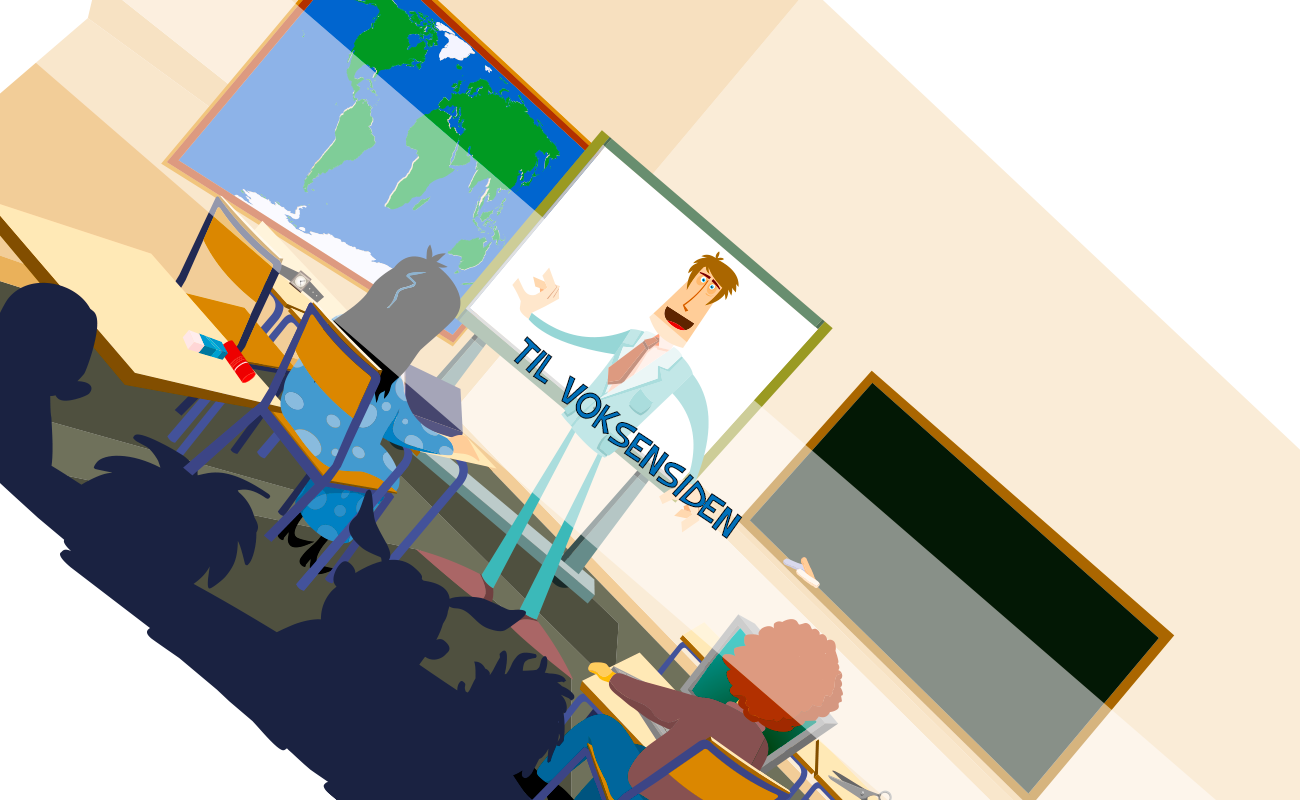
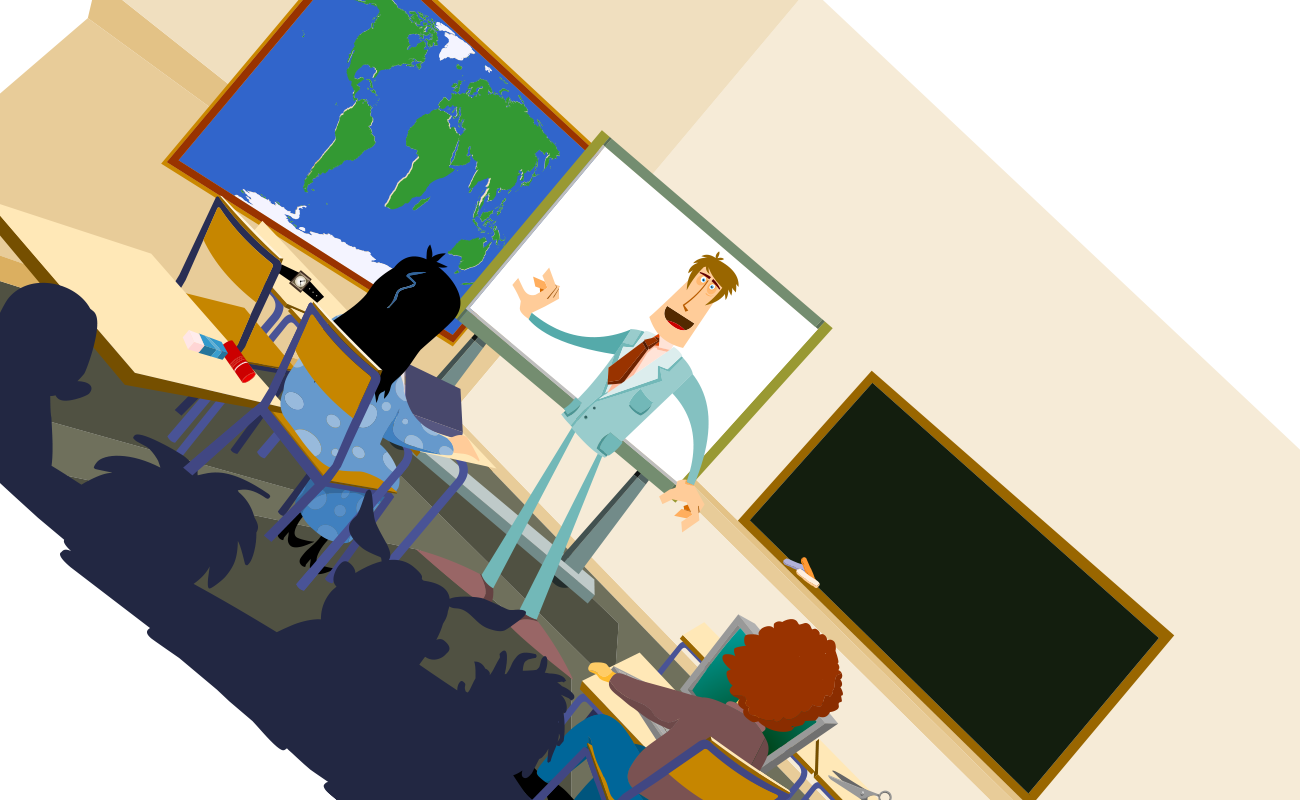
intro endringer

Changed region(s): [[0.0308, 0.0, 0.8615, 1.0]]

diff --git a/Salabytest/app/assets/stylesheets/index/intro.css b/Salabytest/app/assets/stylesheets/index/intro.css
@@ -29,7 +29,7 @@ body {
 /*ADULT SECTION STYLES*/
 
 #adultSection {
-    max-height: 30em;
+    max-height: 20em;
     max-width: 100%;
     -webkit-transform: rotate(-40deg);
     -moz-transform: rotate(-40deg);
@@ -41,12 +41,11 @@ body {
     left: -25em;
     overflow: hidden;
     border-bottom: black solid 5px;
-    /*-webkit-filter: grayscale(1);*/
 
 }
 
 #adultSection img {
-    min-width: 100%;
+    width: 80%;
     transition: .2s all ease-in-out 0s;
 }
 
@@ -58,6 +57,11 @@ body {
 }
 
 
+
+
+/*******************************************************************************************/
+/*CHILD SECTION STYLES*/
+
 #childSection input[type="submit"]{
     font-family: slapstick;
     font-size: 20pt;
@@ -66,10 +70,6 @@ body {
 input[type="text"],input[type="password"] {
     font-family: helvetica;
 }
-
-/*******************************************************************************************/
-/*CHILD SECTION STYLES*/
-
 #childSection {
     position: absolute;
     right: 20em;
@@ -102,13 +102,6 @@ input[type="text"],input[type="password"] {
 }
 /*
 
-#adultSection:hover {
-    -webkit-filter: grayscale(0);
-}
-
-#adultSection:hover ~ #background-image {
-    -webkit-filter: grayscale(1);
-}
 
 /***************MOBIL*********************/
 @media only screen and (max-width: 40em) {
